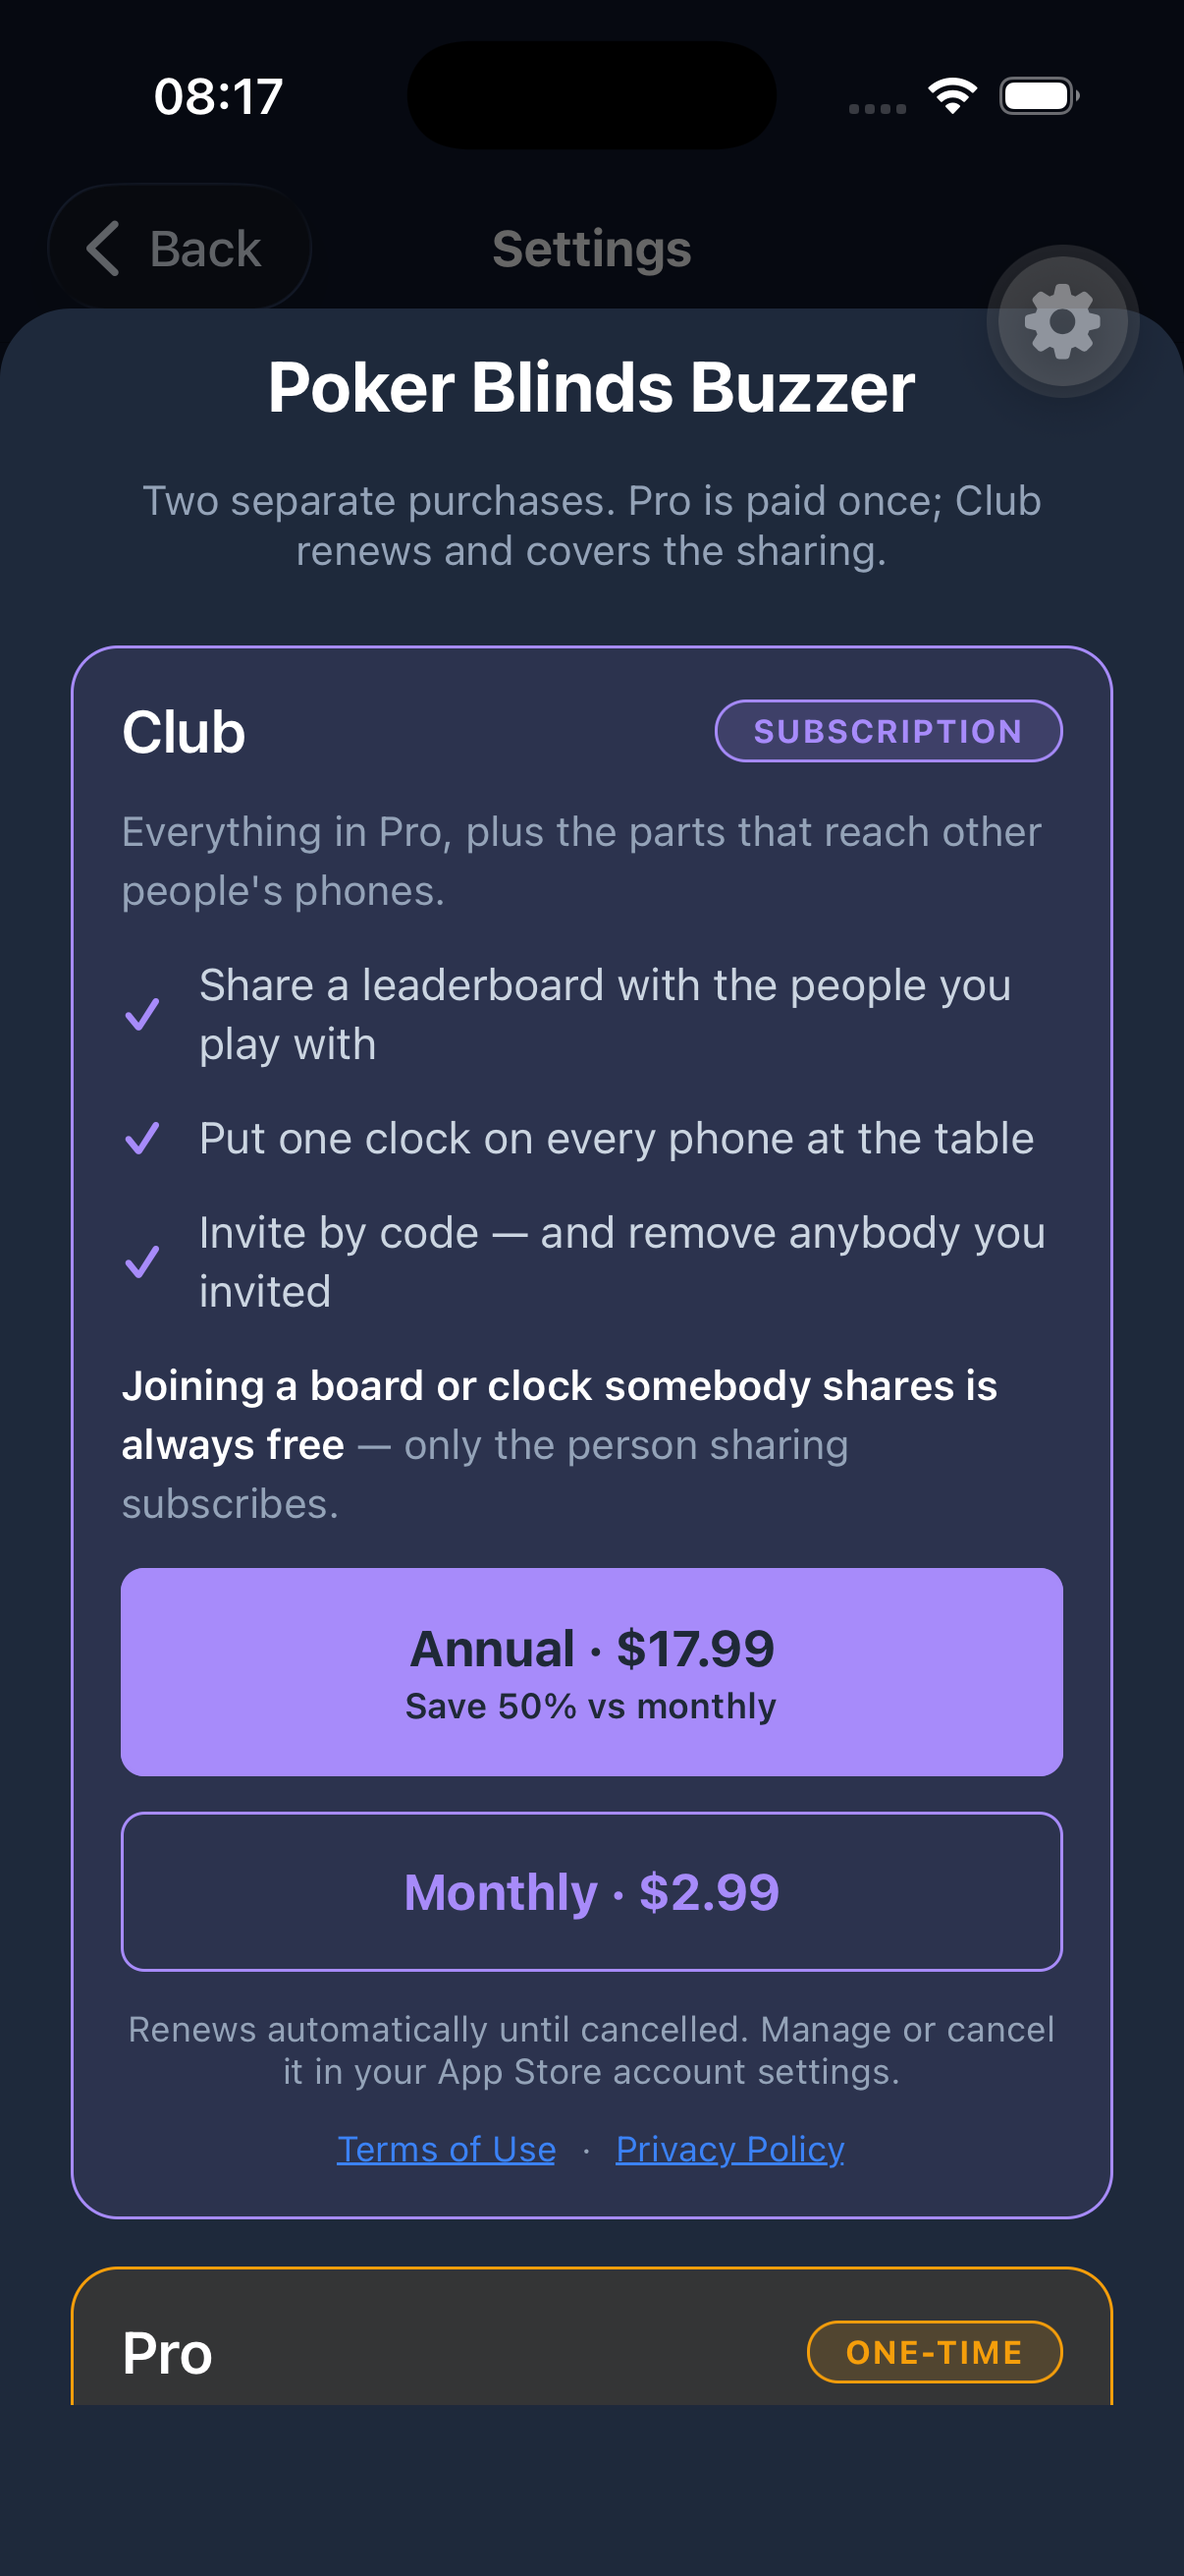
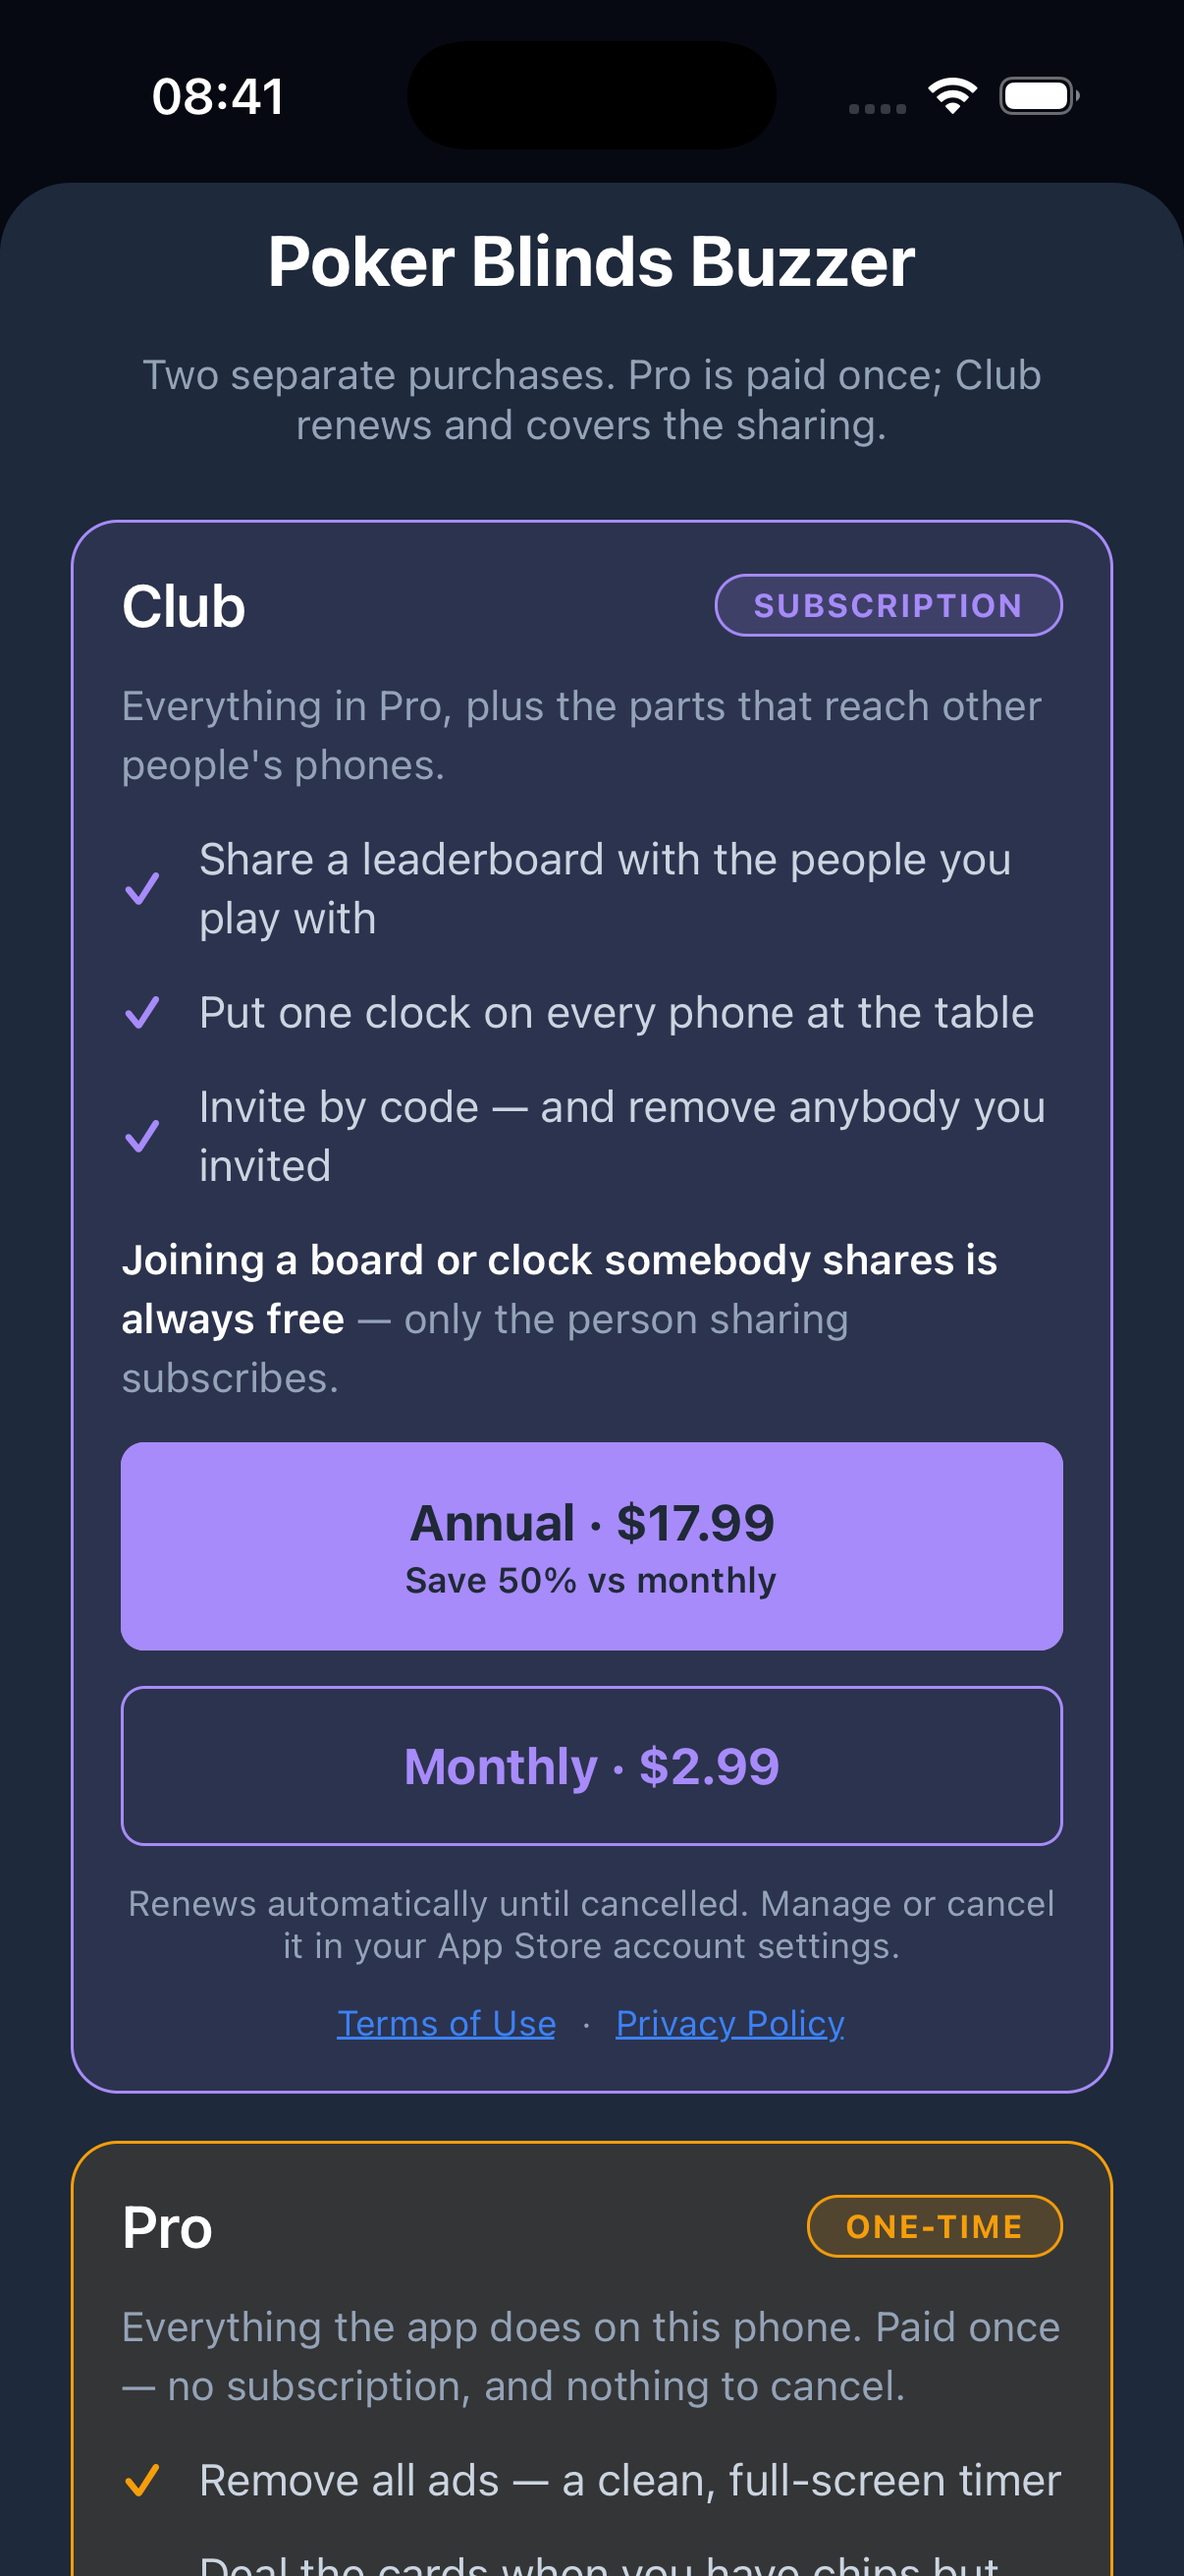
fix(mobile): a sheet's content reaches the bottom of the screen
Every sheet reserved `space.xl + insets.bottom` — about 58pt — as padding on
its container, so the scroll region ended that far above the screen edge and
left a band of empty sheet below the last content. On the paywall it read as a
card clipped mid-sentence with dead space underneath.

Raising `maxContentHeightRatio` could not fix this, and trying it first was the
wrong diagnosis: the band is outside the region that ratio sizes, so a taller
sheet only moved the same gap down. The fix is to move the padding rather than
grow the region. A sheet WITH a footer keeps it on the container, because the
footer must sit above the home indicator and removing it is a regression this
file has already had once on the generator sheet. A sheet WITHOUT one now
carries the same padding in its contentContainerStyle, so content scrolls the
whole way down and the last item still ends clear of the indicator.

A second, quieter defect came out with it. The keyboard branch of the height
calculation had always subtracted insets.top, with a comment explaining that
otherwise the sheet's header ends up behind the clock and the Dynamic Island.
The other branch had no ceiling at all — only a share of the whole window — so
the same defect sat one large ratio away from any caller. Nothing had hit it
while the only values in use were 0.6 and 0.72. Both branches are bounded now,
and the paywall asks for 0.95 to mean "as tall as it can safely be".
[…]

diff --git a/apps/mobile/src/components/ui/Sheet.tsx b/apps/mobile/src/components/ui/Sheet.tsx
@@ -82,7 +82,14 @@ export function Sheet({
    * be dismissed is a product decision rather than a styling one.
    */
   gestureDismissible?: boolean;
-  /** Share of the screen the scrollable region may occupy. */
+  /**
+   * Share of the screen the scrollable region may occupy.
+   *
+   * **A request, not a guarantee** — it is clamped to what actually fits below
+   * the status bar, so asking for more than the screen can give yields a sheet
+   * that stops at the top rather than one whose header is behind the clock.
+   * Pass a deliberately high value to mean "as tall as it can safely be".
+   */
   maxContentHeightRatio?: number;
 }) {
   const insets = useSafeAreaInsets();
@@ -140,6 +147,17 @@ export function Sheet({
       ? keyboardHeight + (Platform.OS === "android" ? insets.bottom : 0)
       : 0;
 
+  /**
+   * The room the home indicator needs, and **where it is spent depends on what
+   * is at the bottom of the sheet.**
+   *
+   * Zero while the keyboard is up, for the reason the container style below
+   * already gives: the keyboard covers the indicator outright on iOS, and on
+   * Android it is inside `coveredByKeyboard`, so counting it again leaves a dead
+   * band.
+   */
+  const safeBottom = coveredByKeyboard > 0 ? 0 : insets.bottom;
+
   // Everything in the sheet that isn't the scroll region — grabber, title,
   // footer, padding, the gaps between them. Derived from one layout pass
   // (sheet height minus scroll height) rather than estimated from the styles,
@@ -166,13 +184,28 @@ export function Sheet({
   // still *usable* (it scrolls, the footer clears the keypad), which is why it
   // survived 1.1.4's keyboard pass — it just renders its header underneath the
   // system furniture.
+  /**
+   * The tallest the scroll region may be without the sheet's own top edge
+   * climbing past the status bar.
+   *
+   * **The keyboard branch below has always subtracted `insets.top` for exactly
+   * this reason** — the comment above it spells out what happens otherwise: the
+   * region takes everything available, the chrome sits on top, and the sheet's
+   * header lands behind the clock and the Dynamic Island. The *other* branch had
+   * no ceiling at all, only a share of the full window, so the same defect was
+   * one large `maxContentHeightRatio` away from any caller. Nothing hit it while
+   * the only values in use were 0.6 and 0.72; the paywall asking for the full
+   * remaining height is what made the gap reachable.
+   */
+  const maxWithoutClippingTop = height - insets.top - chromeHeight;
+
   const scrollMaxHeight =
     coveredByKeyboard > 0
       ? Math.max(
           MIN_SCROLL_HEIGHT,
           height - coveredByKeyboard - chromeHeight - insets.top,
         )
-      : height * maxContentHeightRatio;
+      : Math.min(height * maxContentHeightRatio, maxWithoutClippingTop);
 
   // Lazy useState rather than useRef: the value has to be created once and stay
   // stable, but reading a ref during render is a lint error here.
@@ -312,13 +345,29 @@ export function Sheet({
                   width: "100%" as const,
                 },
                 {
-                  // The bottom inset is dropped from the padding while the keyboard
-                  // is up because it's already in the offset below — on Android via
-                  // `coveredByKeyboard`, on iOS because the keyboard covers the home
-                  // indicator outright. Counting it twice leaves a dead band under
-                  // the footer.
-                  paddingBottom:
-                    space.xl + (coveredByKeyboard > 0 ? 0 : insets.bottom),
+                  /**
+                   * **Only a footer gets this padding; a scroller pays for the
+                   * home indicator out of its own content instead.**
+                   *
+                   * A footer has to sit above the indicator, so the space has to
+                   * be reserved on the container — take it away and the
+                   * generator sheet's buttons go under it, which is a regression
+                   * this file has already had once.
+                   *
+                   * A scroll region is the opposite case. Reserving the space
+                   * here stops the region short of the screen edge and leaves a
+                   * band of empty sheet below the last content — visible on the
+                   * paywall as a clipped card with dead space under it, and not
+                   * fixable by raising `maxContentHeightRatio`, because the band
+                   * is outside the region the ratio sizes. Moving the same
+                   * padding into `contentContainerStyle` lets the content scroll
+                   * the whole way down while still ending clear of the
+                   * indicator.
+                   *
+                   * The keyboard case drops the inset either way — see
+                   * `safeBottom`.
+                   */
+                  paddingBottom: footer ? space.xl + safeBottom : 0,
                   marginBottom: coveredByKeyboard,
                   transform: [{ translateY }],
                 },
@@ -366,7 +415,12 @@ export function Sheet({
               <ScrollView
                 onLayout={(e) => setScrollHeight(e.nativeEvent.layout.height)}
                 style={{ maxHeight: scrollMaxHeight }}
-                contentContainerStyle={styles.scrollContent}
+                contentContainerStyle={[
+                  styles.scrollContent,
+                  // Where the home indicator's room is spent when there is no
+                  // footer to spend it on — see the container's padding above.
+                  !footer && { paddingBottom: space.xl + safeBottom },
+                ]}
                 keyboardShouldPersistTaps="handled"
                 // "none", not "on-drag". A sheet like this is a *form*: the fields
                 // above and below the one you're typing in are the reason you'd
@@ -437,6 +491,9 @@ const styles = StyleSheet.create({
     fontWeight: "600",
     fontSize: 16,
   },
+  // The trailing `space.xs` is the gap a footer-bearing sheet wants between its
+  // last field and the footer. Sheets without a footer override it above with
+  // the home indicator's room instead.
   scrollContent: { gap: space.lg, paddingBottom: space.xs },
   footer: { flexDirection: "row", gap: space.md },
 });

diff --git a/apps/mobile/src/components/paywall/Paywall.tsx b/apps/mobile/src/components/paywall/Paywall.tsx
@@ -360,7 +360,12 @@ export function Paywall({
       visible={visible}
       onClose={onClose}
       gestureDismissible={false}
-      maxContentHeightRatio={0.8}
+      // **As tall as it can safely be**, which is what a number this high means:
+      // `Sheet` clamps it to the room left below the status bar, so the height is
+      // decided by the device rather than by a ratio tuned against one phone. Two
+      // full cards do not fit on a phone at any setting — the second is meant to
+      // be scrolled to — but there is no reason to stop short of what fits.
+      maxContentHeightRatio={0.95}
     >
       <Text style={styles.title}>Poker Blinds Buzzer</Text>
       <Text style={styles.subtitle}>

diff --git a/CHANGELOG.md b/CHANGELOG.md
@@ -1100,6 +1100,30 @@ platform-tagged heading (e.g. `## [1.1.3] - 2026-07-20 — Android`) when you cu
   capture reads **"Save 50% vs monthly"** on a US storefront — `1 − 17.99 ÷ (2.99 × 12)` — where the
   euro prices give 44%.
 
+- **A sheet's content runs to the bottom of the screen instead of stopping short of it.** Every sheet
+  reserved `space.xl + insets.bottom` — about 58pt — as padding on its container, so the scroll
+  region ended that far above the screen edge and left a band of empty sheet below the last content.
+  On the paywall it read as a card clipped mid-sentence with dead space underneath it.
+
+  **Raising `maxContentHeightRatio` could not fix this, and trying it first was the wrong diagnosis.**
+  The band is outside the region that ratio sizes, so a taller sheet just moved the same gap down.
+  What fixes it is moving the padding rather than growing the region: a sheet **with a footer** keeps
+  it on the container, because the footer has to sit above the home indicator and taking it away is a
+  regression this file has already had once on the generator sheet; a sheet **without one** now
+  carries the same padding in its `contentContainerStyle`, so the content scrolls the whole way down
+  and the last item still ends clear of the indicator.
+
+  **A second, quieter defect came out with it.** The keyboard branch of the height calculation had
+  always subtracted `insets.top`, with a comment explaining that otherwise the sheet's own header
+  ends up behind the clock and the Dynamic Island. The other branch had no ceiling at all — only a
+  share of the whole window — so the same defect was one large ratio away from any caller. Nothing
+  had hit it while the only values in use were 0.6 and 0.72. Both branches are now bounded, and the
+  paywall asks for 0.95 to mean "as tall as it can safely be" and lets the clamp decide the rest.
+
+  Together these give the paywall over 100pt more: the Pro card went from clipped mid-description to
+  showing its description and two of its features. The review screenshot is re-shot against the
+  corrected layout, since the one taken moments earlier shows the dead band.
+
 ### Removed
 
 - **The server-side poker table is gone**, and with it the AppSync Events realtime bus. It was a
